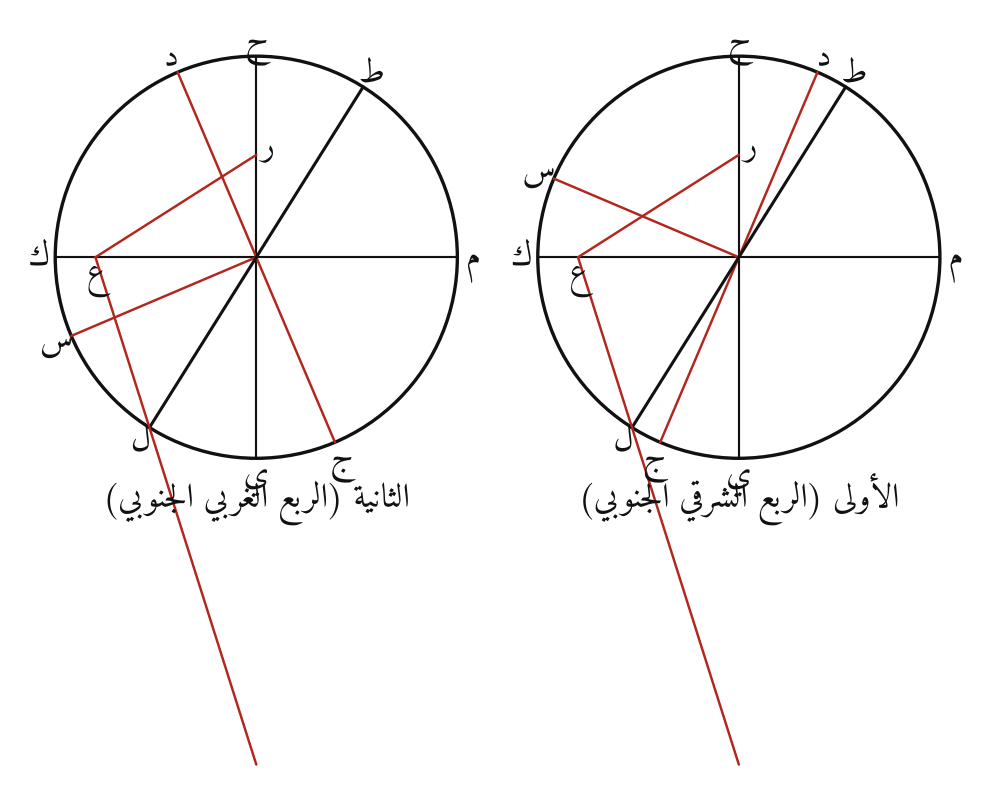
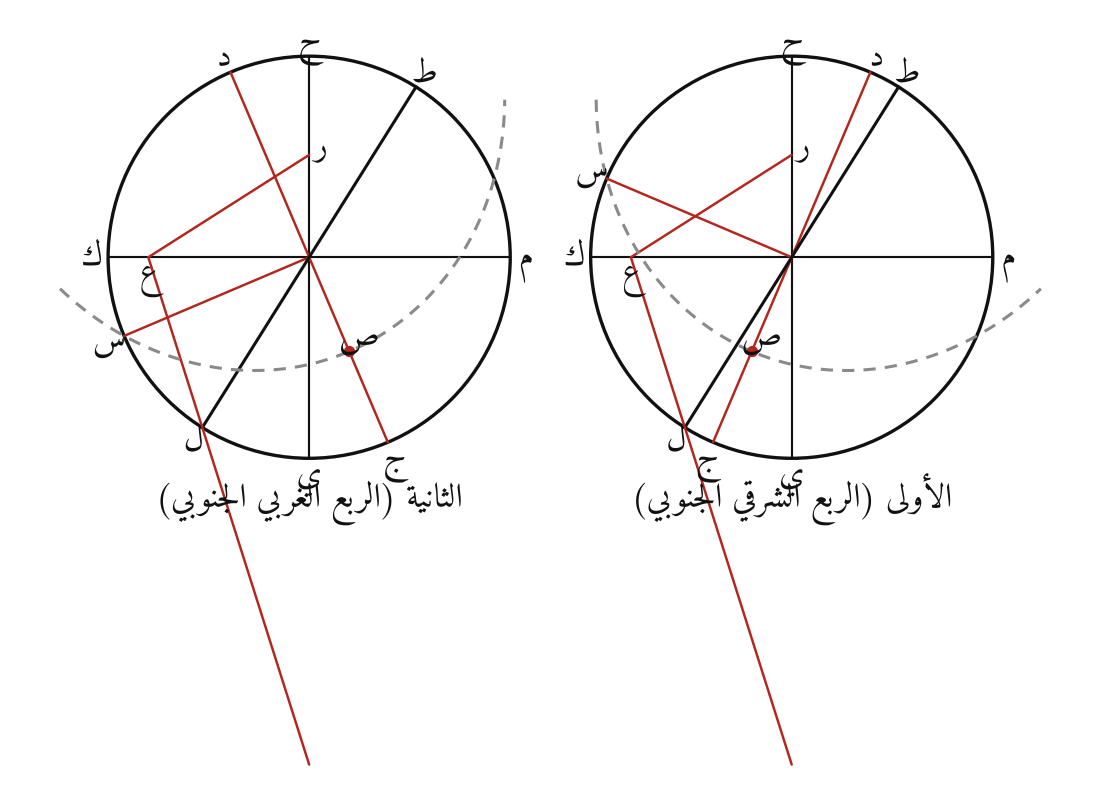
Book: refine conic-section figures (compass constructions, azimuth conics)
Claude-Session: https://claude.ai/code/session_01C7gGb1gFJbvKJ66EpVxr8s

diff --git a/book/figs/ch8.py b/book/figs/ch8.py
@@ -200,13 +200,17 @@ def ordinate_fig(F, cx, Z, T, e, frac, title, meridian_circle, extra_lbl=True):
     P3 = (A[0], A[1], h)
     img = gproj.proj(P3, e)
     F.check(f"{title}: ف is the exact image of the circle point over ا", abs(img[0] - L[1]) < 1e-9 and abs(img[1] - lf) < 1e-9)
-    plate_curve(F_shift(F, cx), Z, T, e, clip=2.2)
+    Pp = line_inter(Z, T, O, (O[0], 1))
+    if Pp and abs(Pp[1]) < 2.4:
+        F.line(S(O), S(Pp), "con"); F.line(S(Z), S(Pp), "redthin")
+        F.lab(S(Pp), "ص", (-.07, .0), size=11)
+    plate_curve(F_shift(F, cx), Z, T, e, clip=1.8)
     for p, s, d in [(Z, "ز", pol(.08, ang(Z))), (T, "ط", pol(.08, ang(T))), (O, "ع", (0, -.08)), (Ss, "س", (-.07, .03)),
                     (B, "ب", (-.07, .0)), (A, "ا", (.03, -.07)), (G, "ج", (.05, .05)), (L, "ل", (-.07, .0)),
                     (Dp, "د", (.05, .05)), (Np, "ن", (.0, .07)), (Fp, "ف", (.07, .0)), (K_, "ك", (-.08, 0)),
                     (M_, "م", (.08, 0)), ((0, 0), "ه", (.05, -.07))]:
         F.lab(S(p), s, d, size=11)
-    F.text(S((0.45, -0.75)), title, size=12)
+    F.text(S((0.0, -1.25)), title, size=12)
     return gproj.kind(Z, T, e)
 
 class F_shift:
@@ -413,40 +417,63 @@ def cone_angles_ellipse(a, p, L):
     return alpha, beta
 
 def fig67(out, a=1.0, p=0.3, L=0.7):
-    F = Fig(7.6, 5.6)
-    A = (0, 0); Bx = 2 * a
-    B = (-Bx, 0)                       # ا on the right, ب on the left as drawn
-    G = (B[0] + 2 * p, 0)
-    Dd = (0, a * a / L); He = (0, a * a / L + L)
-    R = line_inter(He, (He[0] + (B[0] - Dd[0]), He[1] + (B[1] - Dd[1])), A, B)
-    F.line(B, (0.05, 0), "con"); F.line(A, (0, He[1] + 0.05), "con"); F.line(Dd, B, "con"); F.line(He, R, "con")
-    br = dist(B, R)
-    F.close_enough("ب ر = 2L²/a", br, 2 * L * L / a)
+    F = Fig(8.4, 6.0)
+    A = (0.0, 0.0); B = (-2 * a, 0.0); G = (B[0] + 2 * p, 0.0)
+    dd = a * a / L
+    Dd = (0.0, dd); He = (0.0, dd + L)
+    R = (B[0] - 2 * L * L / a, 0.0)
     ag = dist(A, G)
-    T = (B[0] - ag, 0); Hh = (R[0] - ag, 0)
-    for c0, c1 in ((A, T), (A, Hh)):
-        cc = mid(c0, c1); F.arc(cc, dist(c0, c1) / 2, 0, 180, "con", lw=0.7)
+    T = (B[0] - ag, 0.0); H = (R[0] - ag, 0.0)
+    F.line((H[0] - 0.05, 0), (0.05, 0), "con")
+    F.line(Dd, B, "con"); F.line(He, R, "con")
+    F.close_enough("ب ر = 2L²/a", dist(B, R), 2 * L * L / a)
+    cT = mid(A, T); rT = dist(A, T) / 2; cH = mid(A, H); rH = dist(A, H) / 2
+    F.arc(cT, rT, 0, 180, "con", lw=0.7); F.arc(cH, rH, 0, 180, "con", lw=0.7)
+    Yh = math.sqrt(rT * rT - (B[0] - cT[0]) ** 2); Yp = (B[0], Yh)
+    F.line(B, Yp, "con")
+    M = cH
+    Kx = M[0] + Yh; K = (Kx, 0.0)
+    Lh = math.sqrt(rH * rH - (Kx - cH[0]) ** 2); Lp = (Kx, Lh)
+    F.line(K, Lp, "con")
+    S = (M[0] + Lh, 0.0)
+    cS = mid(S, B); rS = dist(S, B) / 2
+    F.arc(cS, rS, 0, 180, "con", lw=0.8)
+    Ah = math.sqrt(rS * rS - (G[0] - cS[0]) ** 2); Ain = (G[0], Ah)
+    F.line(G, Ain, "con")
+    W = line_inter(B, Ain, (0, 0), (0, 1)); Pp = line_inter(Ain, S, (0, 0), (0, 1))
+    F.line(B, W, "con"); F.line(Ain, Pp, "con")
+    ymax = max(He[1], W[1]) + 0.1; ymin = min(0, Pp[1]) - 0.1
+    F.line((0, ymin), (0, ymax), "con")
+    cc = mid(W, Pp); rr = dist(W, Pp) / 2
+    F.circle(cc, rr, "con", lw=0.7)
+    Q = [q for q in line_circle((-5, 0), (5, 0), cc, rr) if q[0] < 0][0]
+    F.check("the circle on و ص passes through ع", abs(dist(cc, Ain) - rr) < 1e-9)
+    bs = dist(B, S)
+    F.check("ب س satisfies s(s − 2(p − L²/a)) = 4L²", abs(bs * (bs - 2 * (p - L * L / a)) - 4 * L * L) < 1e-9)
+    head = abs(ang(S, Ain) - ang(Q, Ain)); centre = abs(ang(Ain, S) - ang(Q, S))
+    centre = min(centre, 360 - centre); head = min(head, 360 - head)
     alpha, beta = cone_angles_ellipse(a, p, L)
-    F.check(f"the angles found agree with the cone of the compass (centre {alpha:.2f}°, head {beta:.2f}°)",
-            abs(math.sin(alpha * D) ** 2 * ((2 * (p - L * L / a) + math.sqrt((2 * (p - L * L / a)) ** 2 + 16 * L * L)) / 2) - 2 * p) < 1e-9)
-    for q, s, d in [(A, "ا", (.07, -.05)), (B, "ب", (0, -.08)), (G, "ج", (0, -.08)), (Dd, "د", (.08, 0)), (He, "ه", (.08, 0)),
-                    (R, "ر", (0, -.08)), (T, "ط", (0, -.08)), (Hh, "ح", (0, -.08))]:
-        F.lab(q, s, d, size=12)
-    F.text((-1.0, -0.45), f"زاوية المركز ≈ {alpha:.1f}°   زاوية الرأس ≈ {beta:.1f}°", size=10, color=GREY)
-    # bottom: the ratio figure for the parabola
-    off = (-3.2, -1.9)
+    F.check(f"the centre angle ع س ق = {centre:.2f}° agrees with the cone of the compass", abs(centre - alpha) < 1e-6 or abs(180 - centre - alpha) < 1e-6)
+    F.line(S, Q, "redthin"); F.line(Ain, Q, "redthin")
+    for q, st, d in [(A, "ا", (.07, -.05)), (B, "ب", (0, -.08)), (G, "ج", (0, -.08)), (Dd, "د", (.08, 0)), (He, "ه", (.08, 0)),
+                     (R, "ر", (0, -.08)), (T, "ط", (0, -.08)), (H, "ح", (0, -.08)), (Yp, "ى", (-.06, .05)), (M, "م", (0, -.08)),
+                     (K, "ك", (0, -.08)), (Lp, "ل", (.0, .08)), (S, "س", (0, -.08)), (Ain, "ع", (.0, .08)), (W, "و", (.08, 0)),
+                     (Pp, "ص", (.08, 0)), (Q, "ق", (0, -.08))]:
+        F.lab(q, st, d, size=12)
+    F.text((-2.0, -0.55), f"زاوية المركز ≈ {alpha:.1f}°    زاوية الرأس ≈ {beta:.1f}°", size=10, color=GREY)
+    off = (-3.5, -1.6)
     AB, BC = 1.6, 0.55
     A2 = off; B2 = (off[0] + AB, off[1]); C2 = (off[0] + AB, off[1] + BC); D2 = (off[0] + AB + BC * BC / AB, off[1])
     F.line(A2, D2, "con"); F.line(A2, C2, "con"); F.line(C2, D2, "con"); F.line(B2, C2, "con")
-    for q, s, d in zip((A2, B2, C2, D2), "ابجد", ((-.07, 0), (0, -.08), (0, .08), (.07, 0))):
-        F.lab(q, s, d, size=12)
+    for q, st, d in zip((A2, B2, C2, D2), "ابجد", ((-.07, 0), (0, -.08), (0, .08), (.07, 0))):
+        F.lab(q, st, d, size=12)
     return F.save(out)
 
 def fig68(out, t=0.7):
     F = Fig(6.4, 4.2)
     Z = (0, 0); He = (2.0, 0)
     F.line((-0.1, 0), (2.0 + 2.0 * t * t + 0.1, 0), "con")
-    ang_ = 110
+    ang_ = 245
     Hh = pol(0.9, ang_, Z); Tt = pol(0.9 + 0.9 * t * t, ang_, Z)
     F.line(Z, Tt, "con"); F.line(Hh, He, "con")
     Yp = (He[0] + 2.0 * t * t, 0)
@@ -473,30 +500,47 @@ def fig68(out, t=0.7):
     return F.save(out)
 
 def fig70(out, a=1.0, p=0.9, L=0.9):
-    F = Fig(7.0, 4.6)
-    A = (0, 0); B = (2 * a, 0); G = (2 * a + 2 * p, 0); Dd = (-2 * p, 0)
-    F.line((Dd[0] - 0.1, 0), (G[0] + 1.2, 0), "con")
-    He = pol(a * a / L * 0.8, 125, Dd); R = pol((a * a / L + L) * 0.8, 125, Dd)
+    F = Fig(8.4, 6.0)
+    A = (0.0, 0.0); Dd = (2 * p, 0.0); B = (2 * a, 0.0); G = (2 * a + 2 * p, 0.0)
+    He = pol(a * a / L, 235, Dd); R = pol(a * a / L + L, 235, Dd)
     F.line(Dd, R, "con"); F.line(He, G, "con")
-    Tt = line_inter(R, (R[0] + G[0] - He[0], R[1] + G[1] - He[1]), A, G)
-    F.line(R, Tt, "con")
-    c = mid(Dd, Tt); r = dist(Dd, Tt) / 2
+    T = line_inter(R, (R[0] + G[0] - He[0], R[1] + G[1] - He[1]), A, G)
+    F.line(R, T, "con")
+    F.close_enough("ج ط = 2L²/a", dist(G, T), 2 * L * L / a)
+    c = mid(Dd, T); r = dist(Dd, T) / 2
     F.arc(c, r, 0, 180, "con", lw=0.8)
-    Hx = (G[0], math.sqrt(max(0, r * r - (G[0] - c[0]) ** 2)))
+    Hx = (G[0], math.sqrt(r * r - (G[0] - c[0]) ** 2))
     F.line(G, Hx, "con")
-    Yp = mid(Tt, B)
+    F.close_enough("ج ح = 2L", Hx[1], 2 * L)
+    Yp = mid(T, B)
+    N = (T[0], Hx[1]); F.line(Hx, N, "redthin"); F.line(T, N, "redthin")
     rad = math.sqrt(dist(Yp, B) ** 2 + Hx[1] ** 2)
-    Kp = (Yp[0] + rad, 0)
-    F.arc(Yp, rad, 0, 40, "con", lw=0.9)
-    rad_text = dist(Yp, Hx)
-    F.arc(Yp, rad_text, 0, 40, "aux", lw=0.7)
-    s = dist(B, Kp)
-    alpha = asind(math.sqrt(2 * p / s))
-    F.check("ب ك · ط ك = ج ح² = 4L² (corrected radius)", abs(dist(B, Kp) * dist(Tt, Kp) - Hx[1] ** 2) < 1e-6)
-    for q, s_, d in [(A, "ا", (0, -.08)), (B, "ب", (0, -.08)), (G, "ج", (0, -.08)), (Dd, "د", (0, -.08)), (He, "ه", (-.07, 0)),
-                    (R, "ر", (-.07, 0)), (Tt, "ط", (0, -.08)), (Hx, "ح", (.0, .08)), (Yp, "ى", (0, -.08)), (Kp, "ك", (0, -.08))]:
-        F.lab(q, s_, d, size=12)
-    F.text((1.5, -0.5), f"زاوية المركز ≈ {alpha:.1f}°", size=10, color=GREY)
+    K = (Yp[0] + rad, 0.0)
+    F.arc(Yp, rad, 0, ang(N, Yp), "con", lw=0.9)
+    rt = dist(Yp, Hx); Kt = (Yp[0] + rt, 0.0)
+    F.arc(Yp, rt, 0, ang(Hx, Yp), "aux", lw=0.7)
+    F.check("ب ك · ط ك = ج ح² (Euclid II.6, corrected radius)", abs(dist(B, K) * dist(T, K) - Hx[1] ** 2) < 1e-9)
+    cb = mid(B, K); rb = dist(B, K) / 2
+    F.arc(cb, rb, 0, 180, "con", lw=0.8)
+    Lp = (G[0], math.sqrt(rb * rb - (G[0] - cb[0]) ** 2))
+    F.line(G, Lp, "con")
+    M = line_inter(K, Lp, (0, 0), (0, 1)); S = line_inter(Lp, B, (0, 0), (0, 1))
+    F.line(K, M, "con"); F.line(Lp, S, "con")
+    F.line((0, S[1] - 0.1), (0, M[1] + 0.1), "con")
+    F.line((-0.1, 0), (K[0] + 0.1, 0), "con")
+    cm = mid(M, S); rm = dist(M, S) / 2
+    F.circle(cm, rm, "con", lw=0.7)
+    Q = [q for q in line_circle((-5, 0), (10, 0), cm, rm) if q[0] > 1e-6][0]
+    F.check("the circle on م س passes through ل", abs(dist(cm, Lp) - rm) < 1e-9)
+    centre = abs(ang(Lp, K) - ang(Q, K)); centre = min(centre, 360 - centre)
+    s_ = dist(B, K)
+    F.check(f"sin²(centre angle ل ك ع) = ب ج / ب ك ({centre:.2f}°)", abs(sind(centre) ** 2 - 2 * p / s_) < 1e-9)
+    F.line(Lp, Q, "redthin")
+    for q, st, d in [(A, "ا", (-.07, -.06)), (Dd, "د", (0, -.08)), (B, "ب", (0, -.08)), (G, "ج", (.05, -.08)), (He, "ه", (-.07, 0)),
+                     (R, "ر", (-.07, 0)), (T, "ط", (0, -.08)), (Hx, "ح", (-.06, .05)), (Yp, "ى", (0, -.08)), (K, "ك", (0, -.08)),
+                     (N, "ن", (.06, .05)), (Lp, "ل", (.06, .05)), (M, "م", (-.07, 0)), (S, "س", (-.07, 0)), (Q, "ع", (0, .08))]:
+        F.lab(q, st, d, size=12)
+    F.text((4.0, -0.6), f"زاوية المركز ≈ {centre:.1f}°", size=10, color=GREY)
     return F.save(out)
 
 # --------------------------------------------------------------------------- 71 straight line
@@ -635,11 +679,28 @@ def azimuth_conic(F, cx, e, sgn, title, kind_expected):
     F.check(f"{title}: the angle at ع gives a {k}", k == kind_expected)
     R = line_inter(O, Tt, (0, 0), (0, 1))
     F.line(S(O), S(R), "con")
+    uJ = (Jj[0], Jj[1]); uS = (Ss[0], Ss[1])
+    P_ = lambda y, z: (y * uJ[0] + z * uS[0], y * uJ[1] + z * uS[1])
+    Pt = P_(R[1], 0)
+    F.lab(S(Pt), "ص", (.05, .06), size=11); F.dot(S(Pt), RED, 5)
     if k != "parabola":
         N = line_inter(O, Ll, (0, 0), (0, 1))
         F.line(S(O), S(N) if abs(N[1]) < 3 else S(Ll), "con")
+        if abs(N[1]) < 1.5:
+            Fq = P_(N[1], 0); F.dot(S(Fq), RED, 5)
+            F.lab(S(Fq), "ف" if k == "ellipse" else "ا", (.05, .06), size=11)
+            F.lab(S(N), "ن", (.06, 0), size=11)
     else:
         F.line(S(O), S(Ll), "con")
+    xs, ys, ok = [], [], []
+    for q in gproj.image(Tt, Ll, e):
+        if q is None: xs.append(0); ys.append(0); ok.append(False); continue
+        pt = S(P_(q[0], q[1])); xs.append(pt[0]); ys.append(pt[1]); ok.append(dist(pt, S((0, 0))) < 1.25)
+    for ii in range(1, len(xs)):
+        if ok[ii] and ok[ii - 1] and math.hypot(xs[ii] - xs[ii - 1], ys[ii] - ys[ii - 1]) > 0.4: ok[ii] = False
+    F.curve_clip(xs, ys, ok, "aux", lw=1.0)
+    F.check(f"{title}: the image passes through س (the node lies on the equator)",
+            min(math.hypot(x - S(Ss)[0], y - S(Ss)[1]) for x, y, o in zip(xs, ys, ok) if o) < 0.01)
     for q, s, d in [(K_, "ك", (-.08, 0)), (M_, "م", (.08, 0)), (H_, "ح", (0, .08)), (Y_, "ي", (0, -.08)), (Tt, "ط", pol(.08, ang(Tt))),
                     (Ll, "ل", pol(.08, ang(Ll))), (Ss, "س", pol(.08, ang(Ss))), (Jj, "ج", pol(.08, ang(Jj))), (Dd, "د", pol(.08, ang(Dd))),
                     (O, "ع", (0, -.08)), (R, "ر", (.06, .04))]:

diff --git a/book/figlib.py b/book/figlib.py
@@ -18,7 +18,7 @@ from bidi.algorithm import get_display
 HERE = os.path.dirname(os.path.abspath(__file__))
 for f in ("Amiri-Regular.ttf", "Amiri-Bold.ttf"):
     fm.fontManager.addfont(os.path.join(HERE, "fonts", f))
-plt.rcParams["font.family"] = "Amiri"
+plt.rcParams["font.family"] = ["Amiri", "DejaVu Sans"]
 plt.rcParams["mathtext.fontset"] = "stix"
 
 EPS = 23 + 35 / 60          # al-Bīrūnī's obliquity 23;35°
